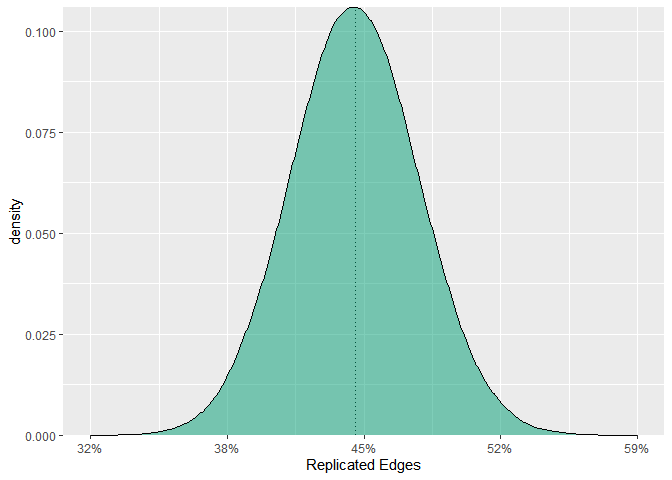
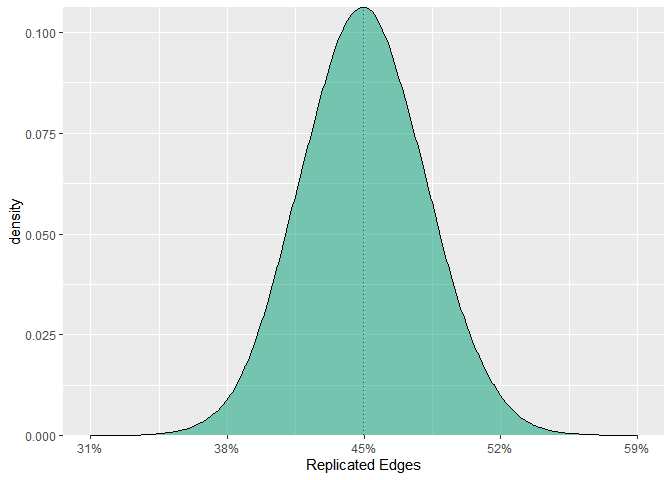
add zenodo badge and add new hex

diff --git a/README.md b/README.md
@@ -1,7 +1,7 @@
 
 <!-- README.md is generated from README.Rmd. Please edit that file -->
 
-<img src="man/figures/imgfile.png" width = 200 />
+<img src="man/figures/nonreg_hex.png" width = 200 />
 
 # GGMnonreg: Non-regularized Gaussian Graphical Models
 
@@ -10,6 +10,7 @@ Version](http://www.r-pkg.org/badges/version/GGMnonreg)](https://cran.r-project.
 [![Downloads](https://cranlogs.r-pkg.org/badges/GGMnonreg)](https://cran.r-project.org/package=GGMnonreg)
 [![CircleCI build
 status](https://circleci.com/gh/donaldRwilliams/GGMnonreg.svg?style=shield)](https://circleci.com/gh/donaldRwilliams/GGMnonreg)
+[![zenodo](https://zenodo.org/badge/DOI/10.5281/zenodo.5668161.svg)](https://doi.org/10.5281/zenodo.5668161)
 
 The goal of **GGMnonreg** is to estimate non-regularized graphical
 models. Note that the title is a bit of a misnomer, in that Ising and
@@ -131,16 +132,16 @@ fit <- ggm_inference(Y, boot = TRUE,
 
 confint(fit)
 #>              2.5%        97.5%
-#>  [1,] -0.28723831 -0.224803737
-#>  [2,] -0.14769894 -0.073096544
-#>  [3,]  0.25182961  0.326881249
-#>  [4,] -0.03975886  0.036164730
-#>  [5,]  0.12354084  0.207451311
-#>  [6,]  0.12770053  0.197564700
-#>  [7,] -0.06731603  0.006954667
-#>  [8,]  0.11145243  0.191037559
-#>  [9,]  0.34728400  0.408276734
-#> [10,]  0.08736271  0.158184525
+#>  [1,] -0.28812453 -0.225070244
+#>  [2,] -0.15246849 -0.069719684
+#>  [3,]  0.24575339  0.329247067
+#>  [4,] -0.04745866  0.031420127
+#>  [5,]  0.12302600  0.195448033
+#>  [6,]  0.12215106  0.215509020
+#>  [7,] -0.06441601  0.009372784
+#>  [8,]  0.10747029  0.182046649
+#>  [9,]  0.33526851  0.413057325
+#> [10,]  0.06704818  0.160007174
 ```
 
 These can then be plotted with, say, **ggplot2** (left to the user).
@@ -166,10 +167,10 @@ fit
 #> 1  1.00
 #> 2  1.00
 #> 3  1.00
-#> 4  0.04
+#> 4  0.06
 #> 5  1.00
 #> 6  1.00
-#> 7  0.39
+#> 7  0.29
 #> 8  1.00
 #> 9  1.00
 #> 10 1.00
@@ -299,8 +300,8 @@ cbind.data.frame(
 #> 2       1.000    1.000
 #> 3       1.000    1.000
 #> 4       1.000    1.000
-#> 5       0.902    0.912
-#> 6       0.049    0.052
+#> 5       0.903    0.912
+#> 6       0.054    0.052
 #> 7       0.000    0.000
 #> 8       0.000    0.000
 #> 9       0.000    0.000
@@ -308,7 +309,7 @@ cbind.data.frame(
 
 # average replicability (simulation)
 mean(R / length(index))
-#> [1] 0.4473333
+#> [1] 0.4475299
 
 # average replicability (analytic)
 fit_enr$ave_pwr
